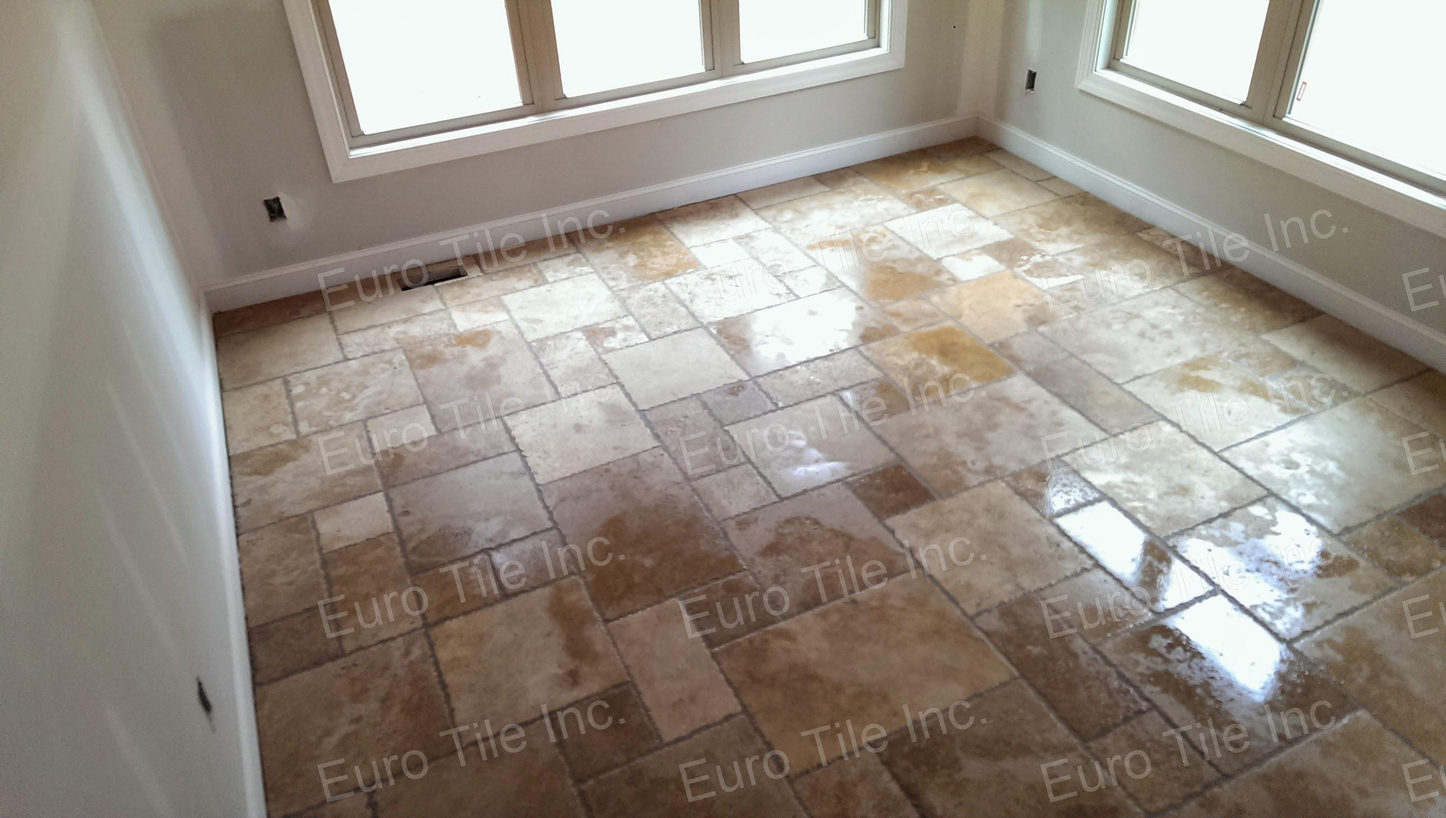
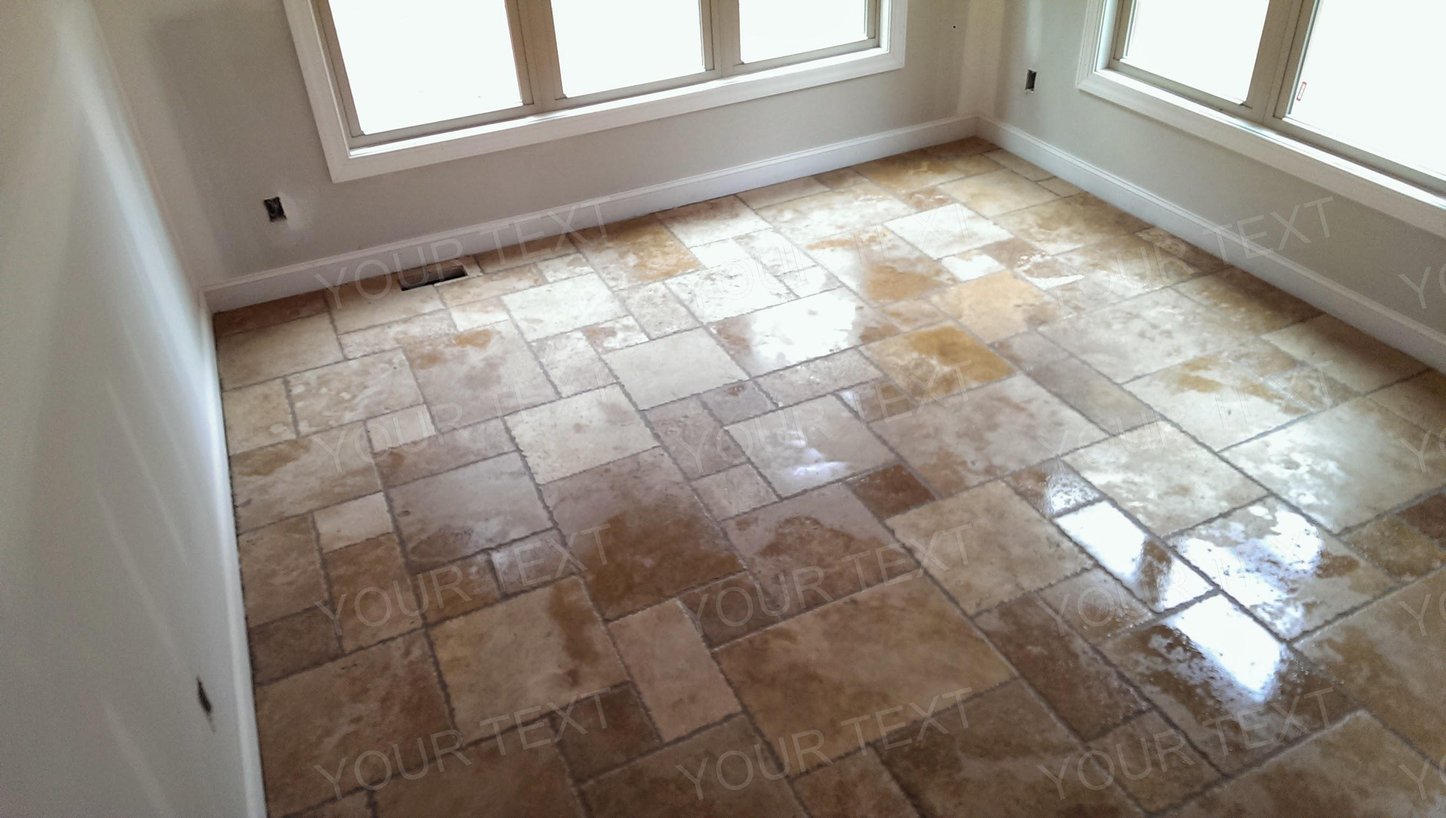
Fixed some params
Letting the user choose the parameters such as opacity and rotation angle.

diff --git a/watermark.py b/watermark.py
@@ -1,5 +1,6 @@
 from PIL import Image, ImageDraw, ImageFont
 import os
+import argparse
 
 dirname = "./output-dir/"
 filepath = "./images-dir/"
@@ -48,13 +49,18 @@ def watermarking(filename,watermark_text,fontsize, opacity, rotation_angle):
 if __name__ == '__main__':
 
 
-	opacity = 50
-	fontsize = 100
-	watermark_text = "Euro Tile Inc."
-	rotation_angle = 15
+	parser = argparse.ArgumentParser(description="Places watermarks in batch on images located under image-dir")
 	
+
+	parser.add_argument("--text", help="Set watermark text.", nargs='?', const="YOUR TEXT!", default="YOUR TEXT")
+	parser.add_argument("--opacity", help="Set opacity.", nargs='?', const=30,  type=int, default=30)
+	parser.add_argument("--fontsize", help="Set text font size.", nargs='?', const=100, type=int, default="100")
+	parser.add_argument("--angle", help="Set rotation angle.", nargs='?', const=15, type=int, default="15")
+
+	args = parser.parse_args()
+
 	# Place watermark for all files in the directory listed in filepath
 	for filename in os.listdir(filepath):
         	if filename.lower().endswith('.jpg') or filename.lower().endswith('.png'):	
-			watermarking(filename,watermark_text, fontsize, opacity, rotation_angle)
+			watermarking(filename, args.text, args.fontsize, args.opacity, args.angle)
 

diff --git a/README.md b/README.md
@@ -5,8 +5,17 @@ Set the values for opacity, fontsize, font-type, watermark text inside the file 
 Also set the directory path for where the new watermarked images should be saved.
 
 Run the code with the following:
-pythong watermark.py
+
+python watermark.py
+
+For more options run:
+
+python watermark.py -h 
+
+-----------
 
 TO DO:
+
 pass values as arguments
+
 fix the watermark placement based on text length
